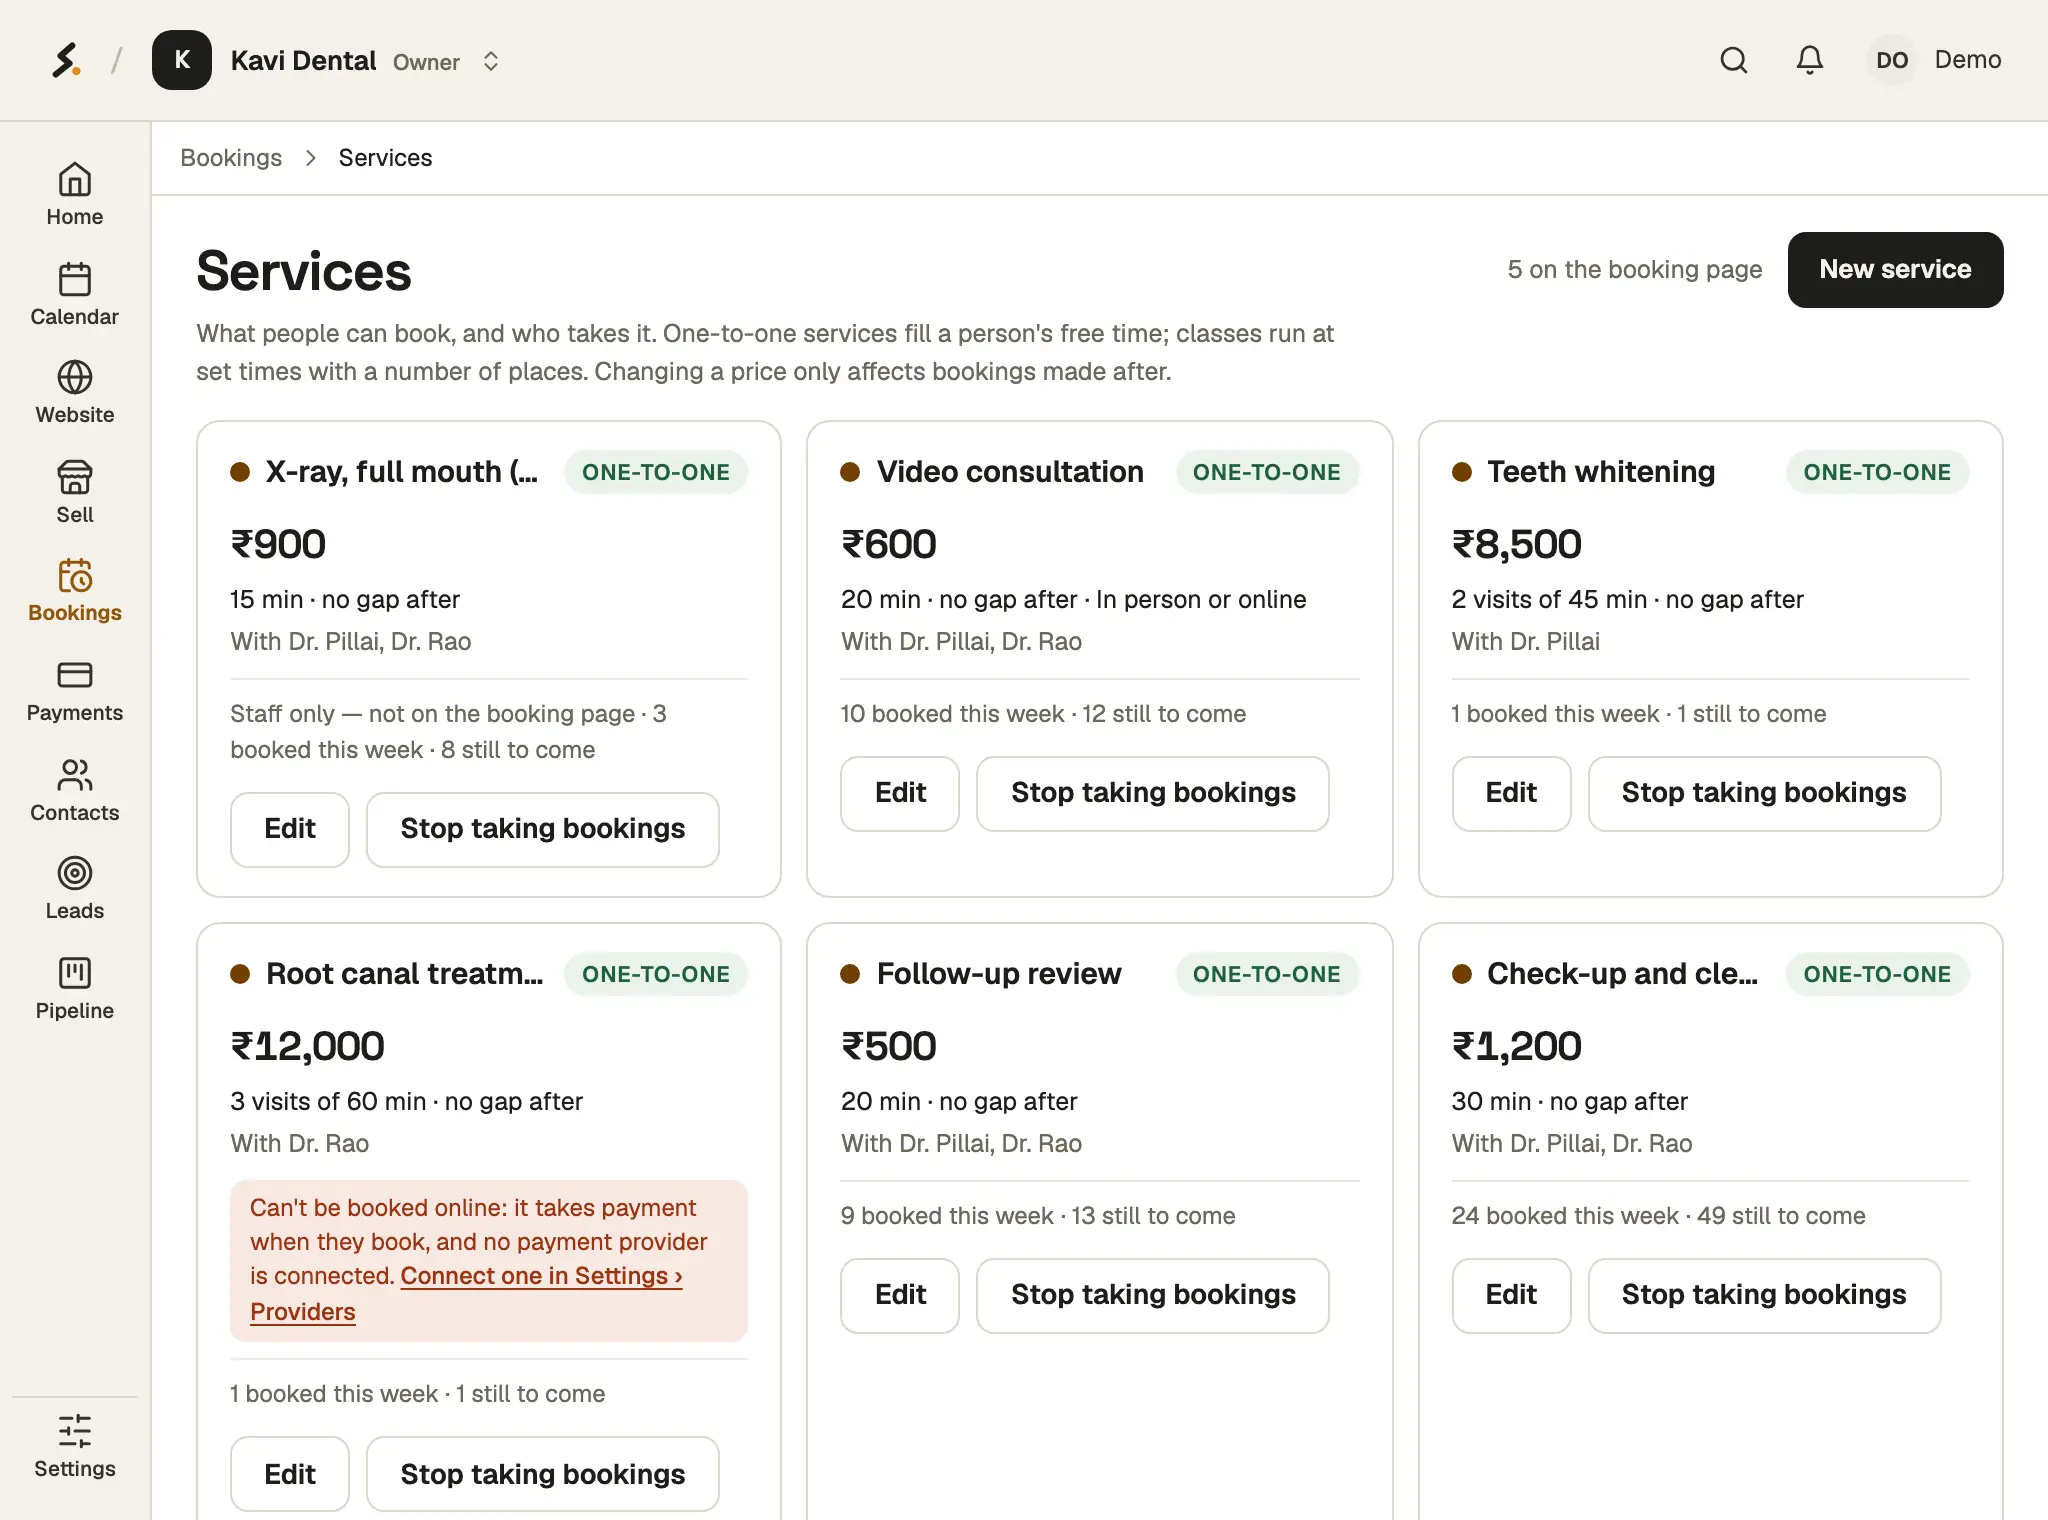
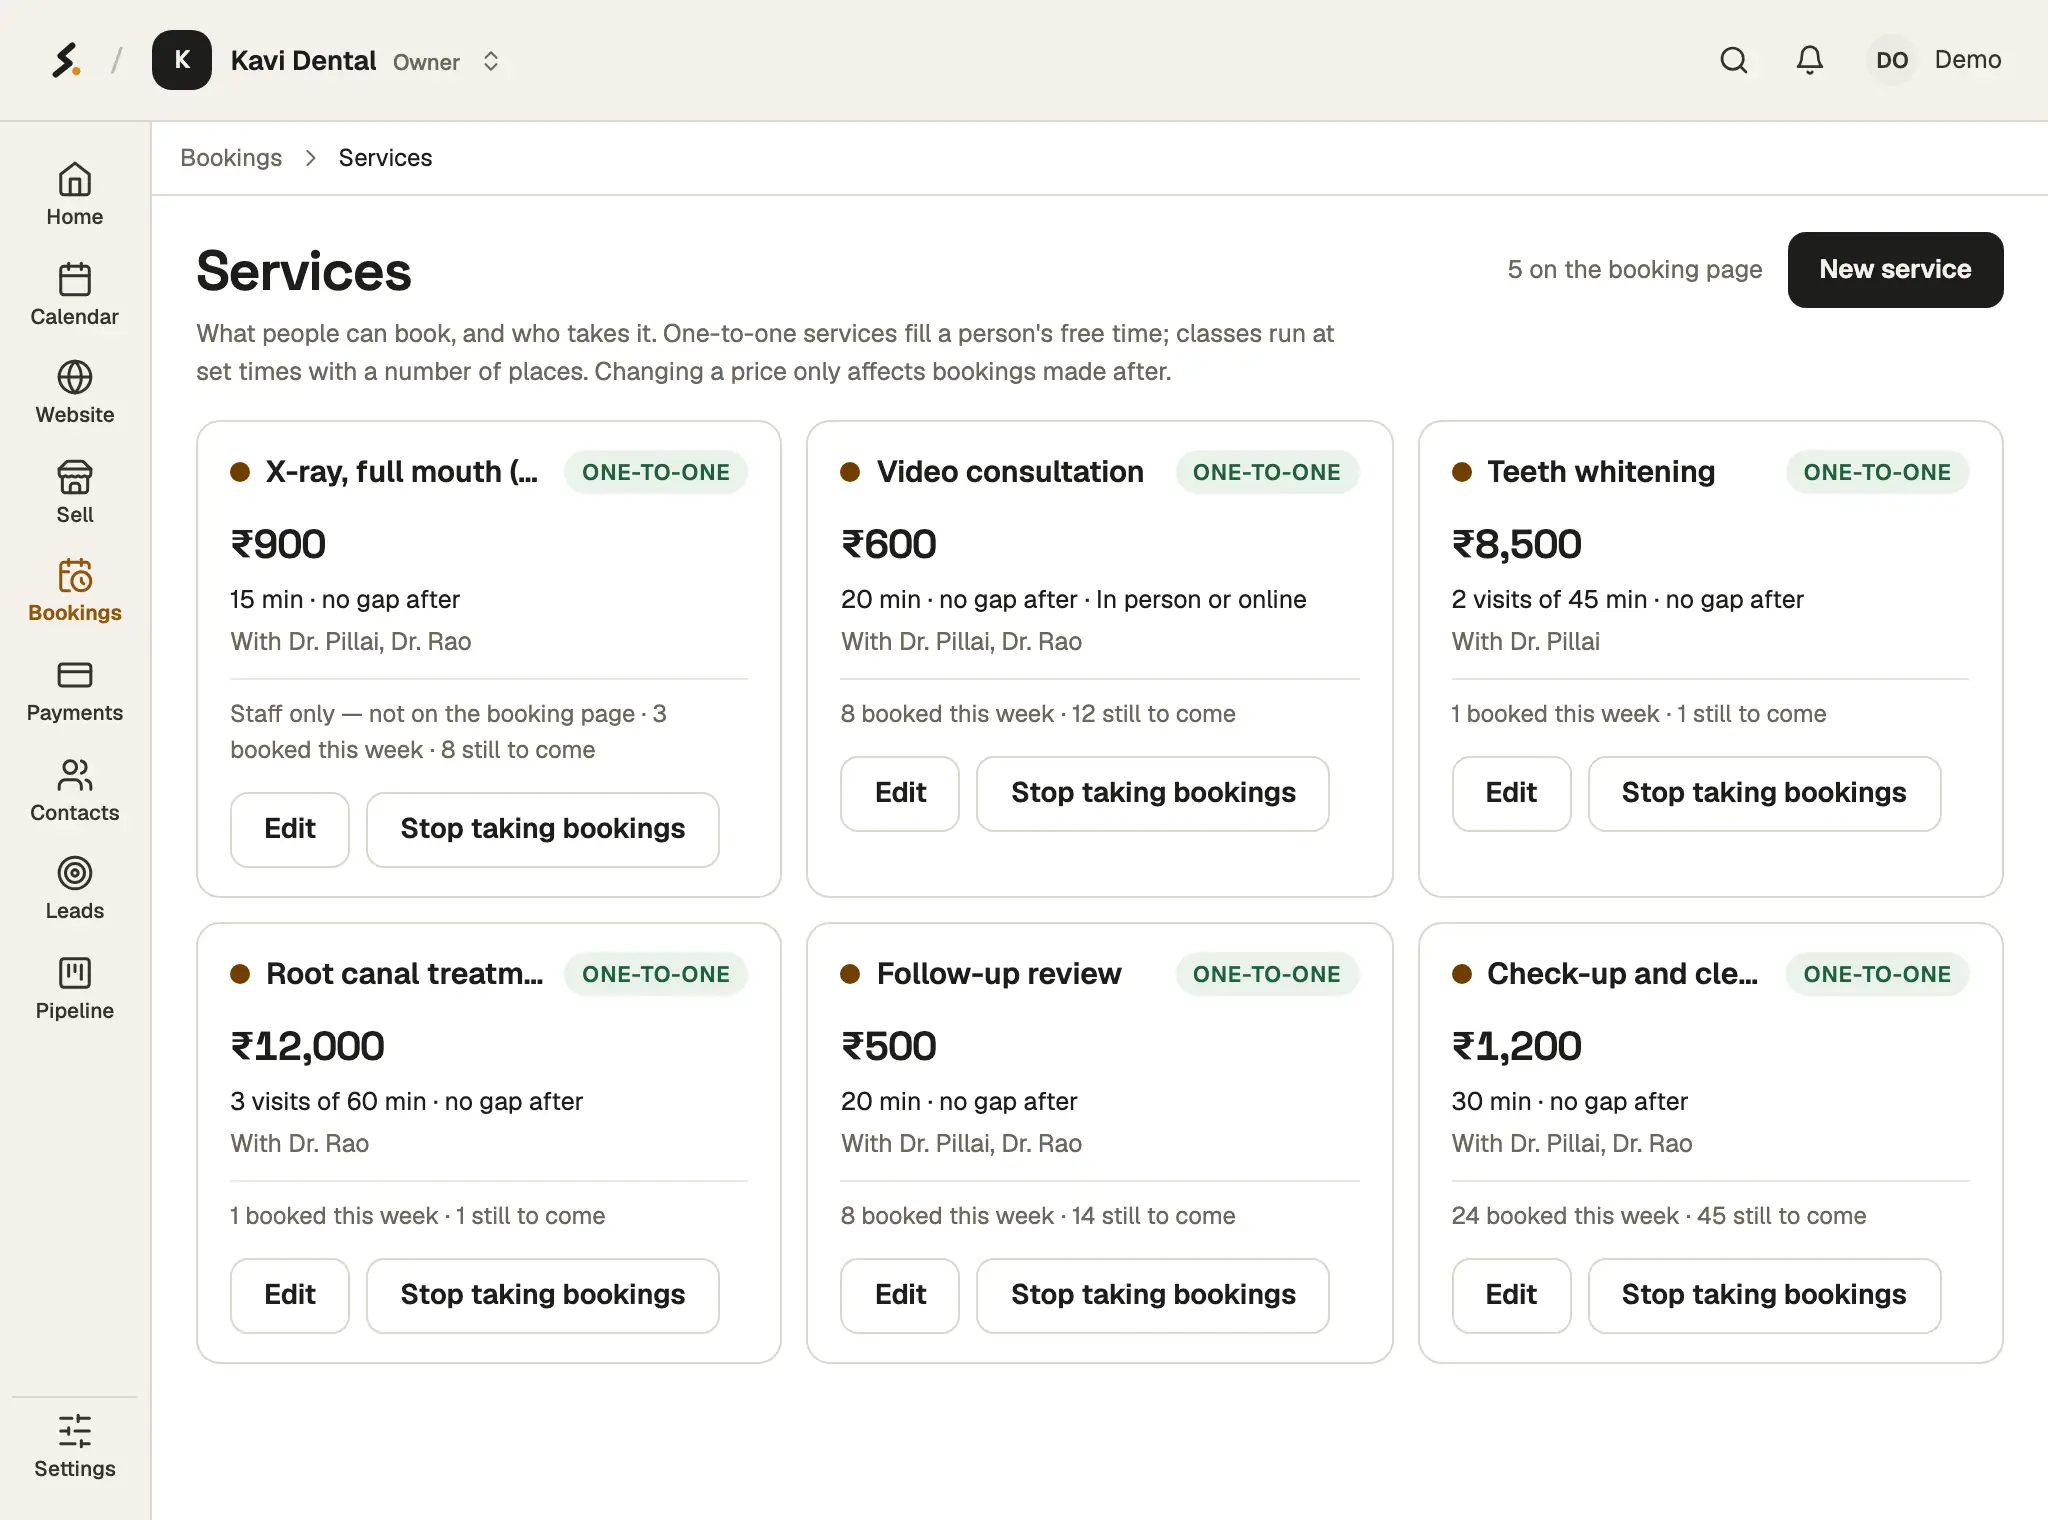
docs(help): deposits follow the payment setting (DEC-089)
Take a deposit when they book and Set your team's hours now say what
DEC-089 does: with Both or At the desk, a deposit that can't be taken
online is paid at the desk; under Online only the booking page says to
get in touch and Services marks the service Can't be booked online.

Re-captured help-take-deposit-1, -2, -3, -5 and help-team-hours-6 on
Kavi Dental (Both, no usable provider): the Services list marks nothing,
the editor shows "Paid at the desk for now", the booking summary shows
the Pay at the desk line, and the booking rules hint says everything is
paid at the desk. Shot 5's mark is now the Pay at the desk line.

diff --git a/e2e/marketing-shots/shots.config.ts b/e2e/marketing-shots/shots.config.ts
@@ -377,7 +377,7 @@ const HELP_SHOTS_B: Shot[] = [
         route: "/services",
         viewport: { width: 1024, height: 760 },
         mark: 'a[aria-label="Edit Root canal treatment"]',
-        alt: "Services at Kavi Dental (demo clinic): each with its price, length and who takes it, and an Edit button; the root canal is marked Can't be booked online, as no payment provider is connected",
+        alt: "Services at Kavi Dental (demo clinic): each with its price, length and who takes it, and an Edit button",
         caption: "Services at Kavi Dental, with Edit on the root canal",
     },
     {
@@ -388,7 +388,7 @@ const HELP_SHOTS_B: Shot[] = [
         viewport: { width: 1280, height: 1400 },
         clip: { selector: KAVI_PRICE, pad: 12 },
         mark: 'section:has(h2:text-is("Price")) [role="radio"][aria-checked="true"]',
-        alt: "The root canal's price at Kavi Dental (demo clinic), with At booking, they pay set to a 50% deposit, what that means, and the warning that people can't book it online while no payment provider is connected",
+        alt: "The root canal's price at Kavi Dental (demo clinic), with At booking, they pay set to a 50% deposit, what that means, and the note that it's paid at the desk for now, as no payment provider is connected",
         caption: "The root canal's price, with a 50% deposit at booking",
     },
     {
@@ -435,10 +435,10 @@ const HELP_SHOTS_B: Shot[] = [
         route: "site:/book?service=seed_sc_kavi_service_2",
         viewport: { width: 1280, height: 900 },
         clip: { selector: 'aside[aria-label="Your booking"]', pad: 12 },
-        mark: 'aside[aria-label="Your booking"] p[role="status"]',
-        alt: "The booking summary on the site of Kavi Dental (demo clinic), saying it can't take the deposit online right now",
+        mark: 'aside[aria-label="Your booking"] div:has(> span:text-is("Pay at the desk"))',
+        alt: "The booking summary on the site of Kavi Dental (demo clinic), with the root canal paid at the desk, as no payment provider is connected",
         caption:
-            "Kavi Dental's booking page, with no way to take the deposit online",
+            "Kavi Dental's booking page, with the deposit paid at the desk",
     },
 
     // ── Set up a monthly plan (Rye & Co., Northwind) ──────────────────

diff --git a/apps/saroh.in/content/shots.captured.ts b/apps/saroh.in/content/shots.captured.ts
@@ -306,14 +306,14 @@ export const CAPTURED: Record<
     },
     "help-take-deposit-1": {
         src: "/shots/help/help-take-deposit-1.webp",
-        alt: "Services at Kavi Dental (demo clinic): each with its price, length and who takes it, and an Edit button; the root canal is marked Can't be booked online, as no payment provider is connected",
+        alt: "Services at Kavi Dental (demo clinic): each with its price, length and who takes it, and an Edit button",
         width: 2048,
         height: 1520,
-        mark: { x: 0.1064, y: 0.9369, w: 0.0704, h: 0.0658 },
+        mark: { x: 0.1064, y: 0.8191, w: 0.0704, h: 0.0658 },
     },
     "help-take-deposit-2": {
         src: "/shots/help/help-take-deposit-2.webp",
-        alt: "The root canal's price at Kavi Dental (demo clinic), with At booking, they pay set to a 50% deposit, what that means, and the warning that people can't book it online while no payment provider is connected",
+        alt: "The root canal's price at Kavi Dental (demo clinic), with At booking, they pay set to a 50% deposit, what that means, and the note that it's paid at the desk for now, as no payment provider is connected",
         width: 1404,
         height: 616,
         mark: { x: 0.4993, y: 0.5, w: 0.1648, h: 0.1494 },
@@ -334,10 +334,10 @@ export const CAPTURED: Record<
     },
     "help-take-deposit-5": {
         src: "/shots/help/help-take-deposit-5.webp",
-        alt: "The booking summary on the site of Kavi Dental (demo clinic), saying it can't take the deposit online right now",
+        alt: "The booking summary on the site of Kavi Dental (demo clinic), with the root canal paid at the desk, as no payment provider is connected",
         width: 648,
-        height: 924,
-        mark: { x: 0.0864, y: 0.5589, w: 0.8273, h: 0.1103 },
+        height: 1000,
+        mark: { x: 0.0864, y: 0.521, w: 0.8273, h: 0.114 },
     },
     "help-monthly-plan-1": {
         src: "/shots/help/help-monthly-plan-1.webp",
